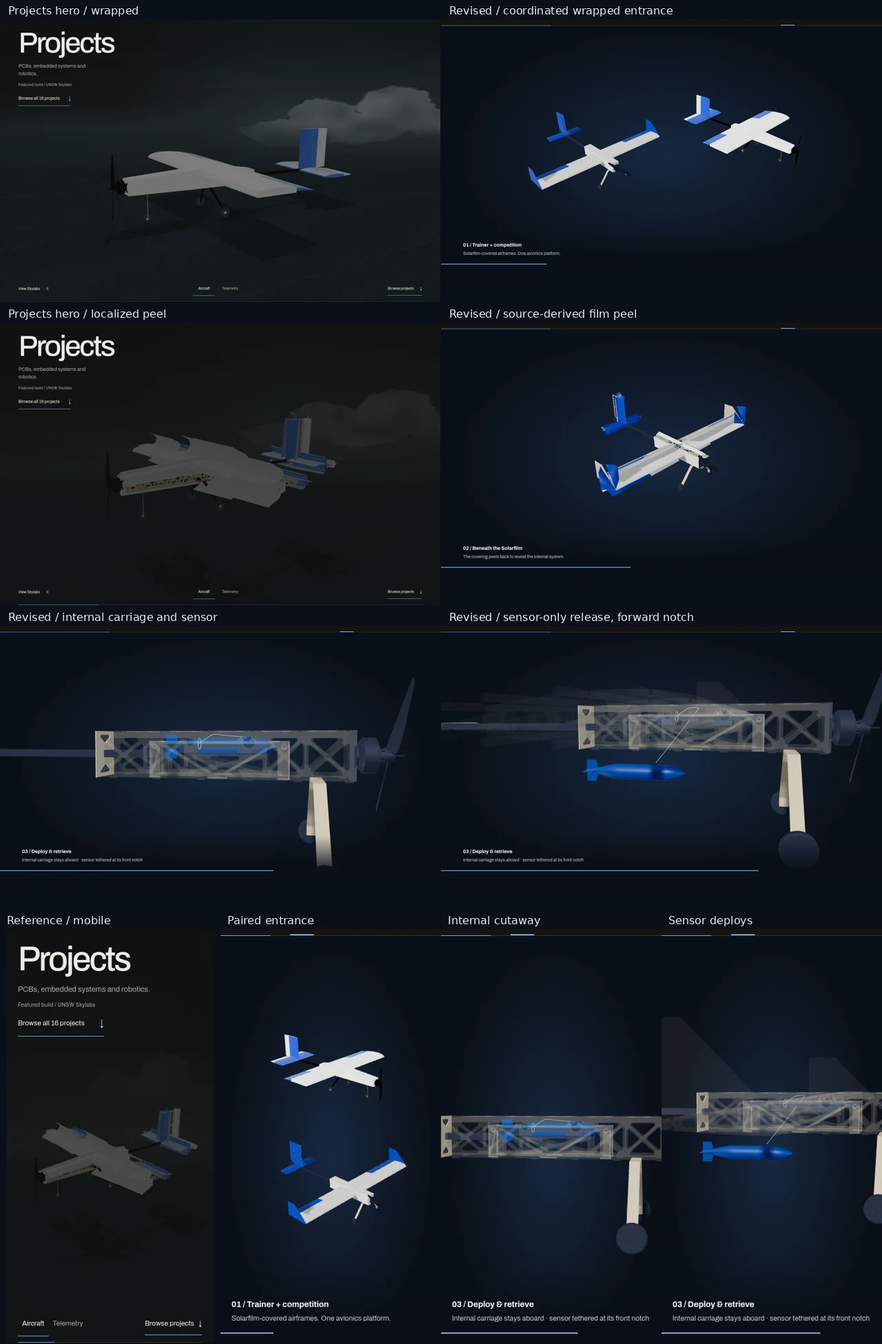
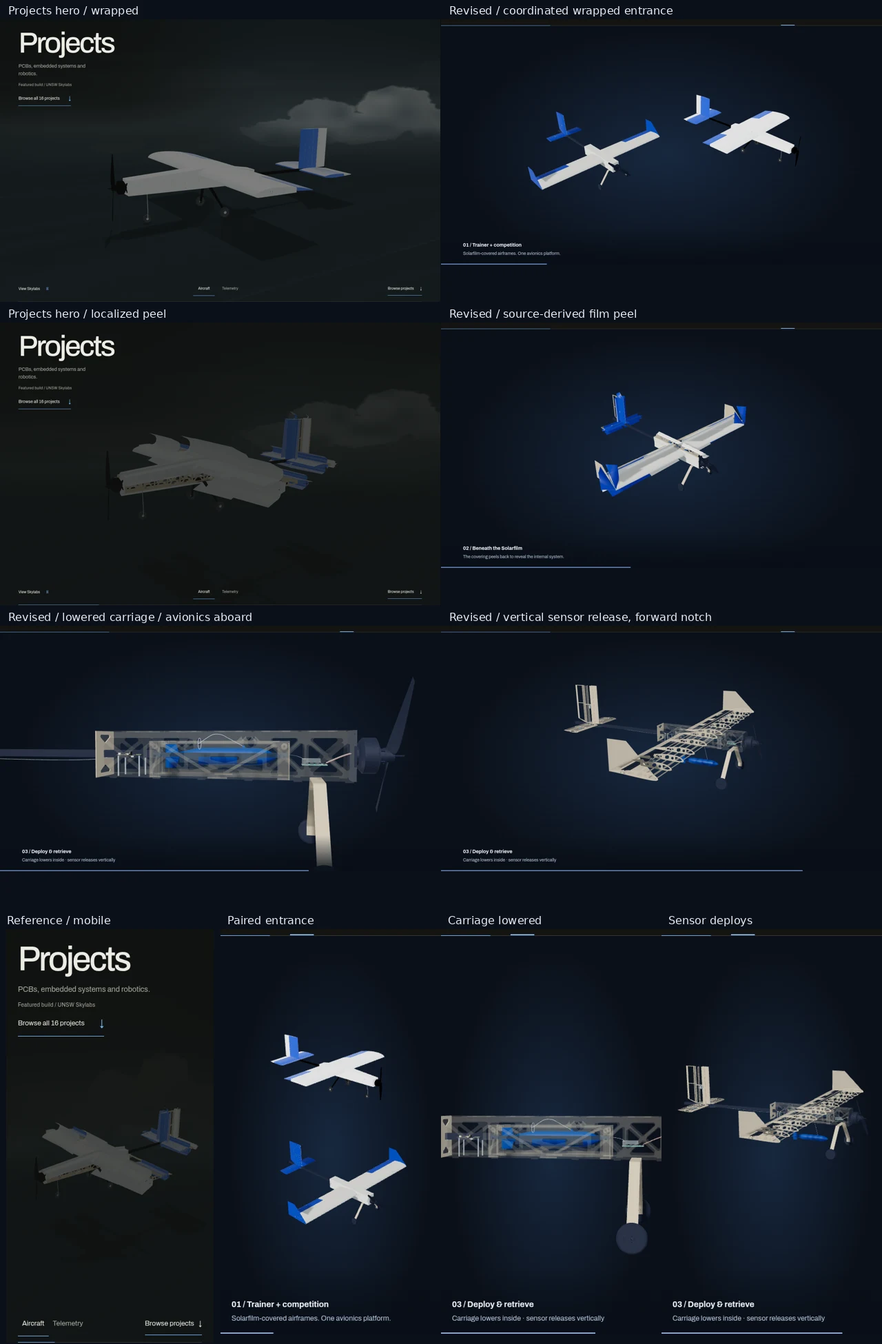
Lower internal carriage before vertical sensor release and add avionics

diff --git a/assets/v2-skylabs-fleet.js b/assets/v2-skylabs-fleet.js
@@ -1,12 +1,12 @@
 /* Original STEP geometry, internally installed with source-derived Solarfilm.
  * See docs/skylabs-competition-integration.md for mount, cutaway and towline
- * assumptions. Only the isolated sensor body deploys; the carriage never leaves the fuselage. */
+ * assumptions. Only the isolated sensor body deploys; the carriage lowers inside the fuselage before release. */
 (()=>{'use strict';
  const root=document.querySelector('[data-skylabs-fleet]');if(!root)return;
  const stage=root.querySelector('.fleet-stage'),track=root.querySelector('.fleet-track'),canvas=root.querySelector('canvas'),status=root.querySelector('.fleet-status');
  const title=root.querySelector('[data-fleet-title]'),caption=root.querySelector('[data-fleet-caption]'),bar=root.querySelector('.fleet-progress');
  const reduced=matchMedia('(prefers-reduced-motion: reduce)');
- let renderer,scene,camera,plane,trainer,mechanism,sensor,line,mechanismSource,housing=[],films=[],filmGroup,airframeCutaway=[],cart,supersededSensor,wingCutaway=[],frame=0,loading=false,ready=false,active=false,failed=false,progress=0;
+ let renderer,scene,camera,plane,trainer,mechanism,sensor,line,mechanismSource,housing=[],films=[],filmGroup,airframeCutaway=[],cart,supersededSensor,systems,wingCutaway=[],frame=0,loading=false,ready=false,active=false,failed=false,progress=0;
  const clamp=x=>Math.max(0,Math.min(1,x)),smooth=x=>{x=clamp(x);return x*x*(3-2*x);};
  function staticCaption(){title.textContent='01 / Trainer + competition';caption.textContent='Trainer and competition taildragger · source assemblies';bar.style.transform='scaleX(0)';}
  const allowed=()=>!reduced.matches&&!navigator.connection?.saveData&&innerHeight>=560;
@@ -29,21 +29,22 @@
   if(!ready)return;progress=clamp(value);const T=THREE,w=stage.clientWidth,h=stage.clientHeight,mobile=w<680;
   renderer.setPixelRatio(Math.min(devicePixelRatio,1.5));if(canvas.width!==Math.round(w*renderer.getPixelRatio())||canvas.height!==Math.round(h*renderer.getPixelRatio()))renderer.setSize(w,h,false);
   const arrival=smooth((progress-.03)/.21),trainerArrival=smooth(progress/.21),focus=smooth((progress-.28)/.18),returnWide=smooth((progress-.70)/.18);
-  const deploy=smooth((progress-.66)/.24),drop=.30*smooth((progress-.66)/.12),peel=smooth((progress-.28)/.27),inspect=smooth((progress-.51)/.10);
+  const lower=.025*smooth((progress-.60)/.10),deploy=smooth((progress-.74)/.18),drop=lower+.45*deploy,peel=smooth((progress-.28)/.27),inspect=smooth((progress-.51)/.10);
   const planeScale=(mobile?.57:.75)+focus*(mobile?.10:.18);
   plane.position.set((mobile?0:-.65)*(1-focus)+(1-arrival)*-2.2,(mobile?-.38:-.08)*(1-focus)+focus*.1+(1-arrival)*.55,(mobile?0:.45)*(1-focus));plane.rotation.set(.07,-.18+(1-arrival)*.2,(1-arrival)*-.18);plane.scale.setScalar(planeScale);plane.visible=true;
   trainer.position.set((mobile?0:.65)+(1-trainerArrival)*-2.2+focus*3,(mobile?.48:.15)+(1-trainerArrival)*.55,mobile?0:-.5);trainer.rotation.set(.07,-.18+(1-trainerArrival)*.2,(1-trainerArrival)*-.18);trainer.scale.setScalar(mobile?.50:.68);trainer.visible=focus<.995;
   // Only authored film peels. Structural CAD and the complete internal carriage
-  // remain fixed relative to the fuselage throughout every forward/reverse pose.
+  // remain aboard; the cart lowers on the internal guides before sensor release.
   films.forEach((part,index)=>{const amount=clamp(peel-(index%4)*.018*Math.sin(Math.PI*peel));part.patches.forEach(patch=>patch.deform(amount));part.group.position.copy(part.normal).multiplyScalar(.10*smooth((amount-.65)/.35));part.material.opacity=1-smooth((amount-.85)/.15);part.material.transparent=part.material.opacity<1;part.material.depthWrite=part.material.opacity>.95;part.group.visible=amount<.999;});
   housing.forEach(part=>{part.object.position.copy(part.rest);part.object.visible=true;part.materials.forEach(material=>{material.opacity=part.object===cart?1:1-.84*inspect;material.transparent=material.opacity<1;material.depthWrite=material.opacity>.95;});});
   airframeCutaway.forEach(part=>{part.object.visible=true;part.materials.forEach(material=>{material.opacity=1-inspect*(part.floor?1:.90);material.transparent=material.opacity<1;material.depthWrite=material.opacity>.95;});});
   wingCutaway.forEach(material=>{material.opacity=1-inspect*(1-returnWide);material.transparent=material.opacity<1;material.depthWrite=material.opacity>.95;});
-  sensor.position.copy(sensor.userData.rest);sensor.position.x-=deploy*1.15;sensor.position.z-=drop;
+  systems.setInspection(1-inspect*(1-returnWide));
+  sensor.position.copy(sensor.userData.rest);sensor.position.z-=drop;cart.position.z-=lower;
   plane.updateMatrixWorld(true);
-  const nearTarget=plane.localToWorld(new T.Vector3(.3638-.575*deploy,-.005-.15*smooth((progress-.66)/.12),0));
+  const nearTarget=plane.localToWorld(new T.Vector3(.3638,-.005-.225*deploy,0));
   const wideTarget=new T.Vector3(-.08*returnWide,-.07*returnWide,0),zoom=smooth((progress-.49)/.12)*(1-returnWide),target=wideTarget.lerp(nearTarget,zoom);
-  const nearCamera=nearTarget.clone().add(new T.Vector3(0,-.035,mobile?1.20:.90));
+  const nearCamera=nearTarget.clone().add(new T.Vector3(0,.12-.155*smooth((progress-.57)/.05),mobile?1.20:.90));
   const wideCamera=new T.Vector3((mobile?2.3:2.1)*(1-returnWide)+.65*returnWide,1.6-1.10*returnWide,(mobile?3.3:2.7)*(1-returnWide)+(mobile?4.0:3.1)*returnWide);
   camera.position.copy(wideCamera).lerp(nearCamera,zoom);camera.aspect=w/h;camera.lookAt(target);camera.updateProjectionMatrix();
   // Measured named wing spar, no invented cross-member or external extension.
@@ -58,7 +59,7 @@
   line.geometry.dispose();line.geometry=new T.TubeGeometry(new T.CatmullRomCurve3(points,false,'centripetal'),160,.00065,6,false);line.userData.anchor=points[0].toArray();line.userData.attachment=attach.toArray();line.visible=peel>.8;
   renderer.render(scene,camera);bar.style.transform='scaleX('+progress+')';
   title.textContent=progress<.28?'01 / Trainer + competition':progress<.56?'02 / Beneath the Solarfilm':'03 / Deploy & retrieve';
-  caption.textContent=progress<.28?'Solarfilm-covered airframes. One avionics platform.':progress<.56?'The covering peels back to reveal the internal system.':'Internal carriage stays aboard · sensor tethered at its front notch';
+  caption.textContent=progress>=.53&&progress<.60?'Central telemetry · 100A ESC · four control servos':progress<.28?'Solarfilm-covered airframes. One avionics platform.':progress<.56?'The covering peels back to reveal the internal system.':'Carriage lowers inside · sensor releases vertically';
   root.dataset.fleetProgress=progress.toFixed(4);
  }
  function tick(){frame=0;if(!ready||!active||document.hidden||!allowed())return;const r=track.getBoundingClientRect();draw(clamp((110-r.top)/Math.max(1,track.offsetHeight-stage.offsetHeight)));}
@@ -67,8 +68,8 @@
   try{
    if(!window.DecompressionStream)throw Error('Static view');
    await script('/assets/vendor/three.min.js',()=>!!window.THREE);await script('/assets/vendor/GLTFLoader.js',()=>!!window.THREE.GLTFLoader);
-   await script('/assets/v3-aircraft-scene.js',()=>!!window.V3AircraftScene);await script('/assets/v2-hero-environment.js',()=>!!window.V2ProductStudio);await script('/assets/v2-skylabs-film.js',()=>!!window.V2SkylabsFilm);
-   const models=await Promise.all([asset('skylabs-competition'),asset('skylabs-mechanism'),window.V3AircraftScene.load(window.THREE),asset('skylabs-mechanism','sensor-body.glb.gz'),fetch('/assets/models/aircraft/skylabs-competition/solarfilm.json.gz').then(async response=>{if(!response.ok)throw Error('Film unavailable');return new Response(response.body.pipeThrough(new DecompressionStream('gzip'))).json();})]);const T=THREE;
+   await script('/assets/v3-aircraft-scene.js',()=>!!window.V3AircraftScene);await script('/assets/v2-hero-environment.js',()=>!!window.V2ProductStudio);await script('/assets/v2-skylabs-film.js',()=>!!window.V2SkylabsFilm);await script('/assets/v2-hero-assets.js',()=>!!window.V2HeroAssets);await script('/assets/v3-aircraft-electronics.js',()=>!!window.V3AircraftElectronics);await script('/assets/v2-skylabs-systems.js',()=>!!window.V2SkylabsSystems);
+   const models=await Promise.all([asset('skylabs-competition'),asset('skylabs-mechanism'),window.V3AircraftScene.load(window.THREE),asset('skylabs-mechanism','sensor-body.glb.gz'),fetch('/assets/models/aircraft/skylabs-competition/solarfilm.json.gz').then(async response=>{if(!response.ok)throw Error('Film unavailable');return new Response(response.body.pipeThrough(new DecompressionStream('gzip'))).json();}),window.V2HeroAssets.load('telemetry')]);const T=THREE;
    scene=new T.Scene();camera=new T.PerspectiveCamera(37,1,.2,20);renderer=new T.WebGLRenderer({canvas,alpha:true,antialias:true,preserveDrawingBuffer:true});renderer.outputEncoding=T.sRGBEncoding;renderer.toneMapping=T.ACESFilmicToneMapping;renderer.toneMappingExposure=.8;
    window.V2ProductStudio.configureRenderer(renderer,T);scene.environment=await window.V2HeroEnvironment.load(T);const studio=window.V2ProductStudio.createLights(T,scene);renderer.toneMappingExposure=.72;studio.key.shadow.normalBias=.0006;renderer.shadowMap.enabled=true;renderer.shadowMap.type=T.PCFSoftShadowMap;
    plane=wrap(models[0],true);mechanism=wrap(models[1],false);trainer=new T.Group();trainer.name='fleet-trainer';plane.name='fleet-competition';const sourceTrainer=models[2].group;trainer.add(sourceTrainer);sourceTrainer.traverse(node=>{if(node.userData.category==='covering')node.traverse(mesh=>{if(!mesh.isMesh)return;const materials=(Array.isArray(mesh.material)?mesh.material:[mesh.material]).map(material=>{const copy=material.clone();copy.polygonOffset=true;copy.polygonOffsetFactor=-2;copy.polygonOffsetUnits=-2;return copy;});mesh.material=materials.length===1?materials[0]:materials;});});sourceTrainer.updateMatrixWorld(true);sourceTrainer.position.sub(new T.Box3().setFromObject(sourceTrainer).getCenter(new T.Vector3()));scene.add(plane,trainer);plane.add(mechanism);mechanism.position.set(.36381582,-.0246424995,0);mechanismSource=models[1];
@@ -93,6 +94,7 @@
     const mesh=new T.Mesh(geometry,material);mesh.name=item.name;mesh.userData={filmSurface:item.kind,peelAxis:item.axis,outward:item.normal,panelNormal:item.normal,separatedFilmPanel:true,shortAxisPeel:item.shortAxisPeel,filmRegion:item.name.startsWith('fuselage')?'fuselage':'wing'};group.add(mesh);filmGroup.add(group);
     const patches=window.V2SkylabsFilm.covering(T,{object:group,filmRegion:mesh.userData.filmRegion},true);films.push({group,material,normal,patches});
    }
+   systems=window.V2SkylabsSystems.create(T,models[5]);plane.add(systems.group);
    plane.traverse(mesh=>{if(mesh.isMesh){mesh.castShadow=true;mesh.receiveShadow=true;}});ready=true;loading=false;
    if(allowed()){root.dataset.fleetState='ready';status.textContent='Scroll to fly in, deploy the sensor and reverse to retrieve.';draw(0);queue();}else{root.dataset.fleetState='static';}
   }catch(error){failed=true;loading=false;ready=false;renderer?.dispose();root.dataset.fleetState='failed';staticCaption();status.textContent='The 3D view is unavailable. The CAD preview and assembly notes remain below.';}
@@ -103,6 +105,6 @@
  reduced.addEventListener('change',preference);navigator.connection?.addEventListener?.('change',preference);
  canvas.addEventListener('webglcontextlost',event=>{event.preventDefault();failed=true;ready=false;cancelAnimationFrame(frame);root.dataset.fleetState=allowed()?'failed':'static';staticCaption();status.textContent=allowed()?'3D rendering paused. The CAD preview remains available.':'Static CAD preview.';});
  addEventListener('pagehide',()=>{cancelAnimationFrame(frame);frame=0;});
- if(new URLSearchParams(location.search).has('fleet-capture'))window.__skylabsFleet={seek:draw,get ready(){return ready;},get renderer(){return renderer;},get scene(){return scene;},get camera(){return camera;},get sensor(){return sensor;},get mechanism(){return mechanism;},get housing(){return housing;},get cart(){return cart;},get films(){return films;},get filmGroup(){return filmGroup;},get mechanismSource(){return mechanismSource;},get supersededSensor(){return supersededSensor;},get line(){return line;},get progress(){return progress;}};
+ if(new URLSearchParams(location.search).has('fleet-capture'))window.__skylabsFleet={seek:draw,get ready(){return ready;},get renderer(){return renderer;},get scene(){return scene;},get camera(){return camera;},get sensor(){return sensor;},get mechanism(){return mechanism;},get housing(){return housing;},get cart(){return cart;},get systems(){return systems;},get films(){return films;},get filmGroup(){return filmGroup;},get mechanismSource(){return mechanismSource;},get supersededSensor(){return supersededSensor;},get line(){return line;},get progress(){return progress;}};
  preference();
 })();

diff --git a/assets/v2-skylabs-systems.js b/assets/v2-skylabs-systems.js
@@ -1,0 +1,33 @@
+/* Competition installation: existing Skylabs PCB and trainer ESC/servos.
+ * All coordinates are aircraft-local metres; mounting positions are illustrative. */
+(()=>{'use strict';
+ function create(T,boardModel){
+  const group=new T.Group();group.name='competition-avionics';group.userData.illustrativeMounts=true;
+  const board=new T.Group();board.name='Central Skylabs telemetry PCB';board.position.set(.115,-.025,0);group.add(board);
+  const size=Math.max(boardModel.metadata.boundsMm[2]-boardModel.metadata.boundsMm[0],boardModel.metadata.boundsMm[3]-boardModel.metadata.boundsMm[1])/1000;
+  if(Math.abs(size-.07303)>1e-6)throw Error('Unexpected telemetry dimensions');
+  boardModel.group.scale.setScalar(size);board.add(boardModel.group);V2ProductStudio.applyMaterials(boardModel,'telemetry',T);
+  board.userData={source:boardModel.metadata.source,components:boardModel.metadata.modelledComponentCount,scaleToMetres:size};
+  const trainer=V3AircraftElectronics.create(T);trainer.setLanding();
+  const esc=trainer.anchors.esc;group.add(esc);esc.position.set(.605,-.045,0);esc.quaternion.identity();
+  const placements=[['Left flaperon servo',[.345,-.002,.67]],['Right flaperon servo',[.345,-.002,-.67]],['Elevator servo',[-.63,-.024,.15]],['Rudder servo',[-.63,.13,0]]];
+  const servos=placements.map(([name,position])=>{const object=trainer.group.getObjectByName(name+' — KST-X10 Pro-B, illustrative geometry');if(!object)throw Error('Trainer servo missing');group.add(object);object.position.set(...position);object.quaternion.identity();if(name==='Rudder servo')object.rotation.x=Math.PI/2;return object;});
+  const metal=new T.MeshStandardMaterial({color:0x687888,roughness:.45,metalness:.7});
+  for(const x of [-.030,.030])for(const z of [-.022,.022]){const mount=new T.Mesh(new T.CylinderGeometry(.002,.002,.05575,10),metal);mount.name='Illustrative telemetry standoff';mount.position.set(.115+x,-.052875,z);group.add(mount);}
+  function wire(name,points,colour,radius=.00065){const mesh=new T.Mesh(new T.TubeGeometry(new T.CatmullRomCurve3(points.map(p=>new T.Vector3(...p))),32,radius,5,false),new T.MeshStandardMaterial({color:colour,roughness:.7,envMapIntensity:.15}));mesh.name=name;group.add(mesh);return mesh;}
+  const wires=[];
+  wires.push(wire('Telemetry to ESC sidewall signal harness',[[.15,-.02,-.02],[.16,-.025,-.047],[.56,-.025,-.047],[.59,-.04,-.015]],0x7489a3));
+  for(const sign of [-1,1])wires.push(wire('Wing servo signal harness',[[.12,-.02,sign*.02],[.17,.025,sign*.045],[.33,.025,sign*.06],[.34,.012,sign*.67]],0x7489a3));
+  wires.push(wire('Tail control harness',[[.08,-.02,0],[.03,-.035,0],[-.55,-.035,0],[-.63,-.02,.15]],0x7489a3));
+  wires.push(wire('Rudder control harness',[[-.55,-.035,0],[-.61,.03,0],[-.63,.13,0]],0x7489a3));
+  for(let i=0;i<3;i++)wires.push(wire('ESC motor phase '+i,[[.634,-.04,(i-1)*.01],[.68,-.02,(i-1)*.012],[.75,0,(i-1)*.008]],[0x916c36,0x395e8f,0x963e3e][i],.0009));
+  for(const part of [esc,...servos])part.traverse(mesh=>{if(mesh.isMesh){const restore=m=>{m=m.clone();m.opacity=1;m.transparent=!!m.map;m.depthWrite=true;m.envMapIntensity=.3;m.needsUpdate=true;return m;};mesh.material=Array.isArray(mesh.material)?mesh.material.map(restore):restore(mesh.material);}});
+  const rods=servos.map((servo,i)=>{const a=servo.position.clone().add(new T.Vector3(-.007,.018,0)),b=a.clone();b.x-=i<2?.065:.055;return wire('Illustrative control pushrod '+i,[a.toArray(),a.clone().lerp(b,.5).toArray(),b.toArray()],0x949eaa,.0006);});
+  group.traverse(mesh=>{if(mesh.isMesh){mesh.castShadow=true;mesh.receiveShadow=true;}});
+  const wingDetails=[...servos.slice(0,2),...wires.slice(1,3),...rods.slice(0,2)];
+  const wingMaterials=[];wingDetails.forEach(object=>object.traverse(mesh=>{if(mesh.isMesh){mesh.material=mesh.material.clone();wingMaterials.push(mesh.material);}}));
+  function setInspection(amount){wingMaterials.forEach(m=>{m.opacity=amount;m.transparent=amount<1||!!m.map;m.depthWrite=amount>.95;});wingDetails.forEach(o=>o.visible=amount>.001);}
+  return {group,board,esc,servos,wires,rods,setInspection,source:trainer.statistics.provenance};
+ }
+ window.V2SkylabsSystems={create};
+})();

diff --git a/v2/projects/skylabs/index.html b/v2/projects/skylabs/index.html
@@ -68,7 +68,7 @@
       <header class="skylabs-fleet-header"><div><span class="fleet-eyebrow">Skylabs / Aircraft</span><h2 id="fleet-heading">From trainer to competition.</h2><p>A taildragger airframe, a dedicated sensor carriage and a towline returning around the main carbon spar. Scroll through the flight, deployment and return.</p></div><a href="/v2/projects/#skylabs-aircraft">Explore the trainer ↗</a></header>
       <div class="fleet-track"><div class="fleet-stage"><img class="fleet-poster" src="/assets/models/aircraft/skylabs-competition/poster.webp" width="1440" height="720" alt="Trainer and competition aircraft together, rendered from the existing trainer asset and supplied competition CAD" loading="lazy"><canvas aria-hidden="true"></canvas><div class="fleet-caption"><strong data-fleet-title>01 / Trainer + competition</strong><span data-fleet-caption>Trainer and competition taildragger · source assemblies</span></div><div class="fleet-progress" aria-hidden="true"></div></div></div>
       <p class="fleet-status" role="status">Static CAD preview. Scroll animation is available with motion enabled.</p>
-      <div class="fleet-notes"><div><h3>One avionics platform, two airframes.</h3><p>The competition taildragger builds on the trainer’s telemetry platform, with the same ESC provisionally carried forward.</p><p><a href="https://a360.co/4ioq3Ov" target="_blank" rel="noreferrer">Aircraft CAD ↗</a> · <a href="https://a360.co/3WXbmec" target="_blank" rel="noreferrer">Sensor mechanism CAD ↗</a></p></div><div><h3>Out to measure. Back to the aircraft.</h3><p>The Solarfilm peels back to reveal the internal mechanism. The carriage stays inside the fuselage as the sensor deploys from its front-notch tether. The towline loops around the main spar; reverse the scroll to bring the sensor home.</p><p class="fleet-illustrative">Illustrative internal installation and cutaway, using the supplied CAD.</p></div></div>
+      <div class="fleet-notes"><div><h3>One avionics platform, two airframes.</h3><p>The competition taildragger builds on the trainer’s telemetry platform, with the same ESC provisionally carried forward.</p><p><a href="https://a360.co/4ioq3Ov" target="_blank" rel="noreferrer">Aircraft CAD ↗</a> · <a href="https://a360.co/3WXbmec" target="_blank" rel="noreferrer">Sensor mechanism CAD ↗</a></p></div><div><h3>Out to measure. Back to the aircraft.</h3><p>The Solarfilm peels back to reveal the internal mechanism. The carriage lowers inside the fuselage, then the sensor releases vertically through the bottom on its front-notch tether. The central telemetry board, ESC and control servos stay aboard. The towline loops around the main spar; reverse the scroll to bring the sensor home.</p><p class="fleet-illustrative">Illustrative internal installation and cutaway, using the supplied CAD.</p></div></div>
     </section>
 
     <section class="project-interactive v2-hardware-section" id="explore" aria-labelledby="skylabs-assembly-title"><span id="assembly" class="v2-anchor-alias" aria-hidden="true"></span><div class="project-interactive-inner">

diff --git a/docs/skylabs-competition-integration.md b/docs/skylabs-competition-integration.md
@@ -1,18 +1,18 @@
 # Competition aircraft — internal installation revision
 
-This revision is prepared for review, not published. The trainer and competition taildragger enter together; opaque white/blue Solarfilm covers the competition structure, peels away, and reassembles on reverse scroll. The camera then reveals the internal installation. Only the sensor body drops and trails aft. The carriage, guides and housing remain stationary in the fuselage. Trainer specifications and the same ESC remain provisional.
+This revision updates the published v2 sequence. The trainer and competition taildragger enter together; opaque white/blue Solarfilm covers the competition structure, peels away, and reassembles on reverse scroll. The camera then reveals the internal installation. The carriage lowers 25 mm inside the fuselage with the sensor, then the sensor alone releases vertically a further 450 mm. There is no aft translation. Guides and housing remain fixed; the carriage remains aboard. Trainer specifications and the same ESC remain provisional.
 
 ## Source identity and units
 
 Both supplied STEP files declare millimetres. Original exported assemblies retain all 134 aircraft and 11 mechanism occurrences, source transforms and hashes in their manifests. Source geometry is not resized. Runtime axis wrappers convert metres to nose +X, up +Y, span Z. `integration.json` records transforms and Library IDs. Build sources: `scripts/build-skylabs-competition.py`, `scripts/extract-skylabs-sensor.py`, `scripts/build-skylabs-film.py`.
 
-The product `Sensor V2, 300mm Length` contains two solids, not just the sensor: solid 0 is the 300 × 63.8 × 63.8 mm body; solid 1 duplicates the separate `Cart V2` (identical 160278.1276 mm³ volume, with a 0.2093 mm X offset). The old animation moved that compound and therefore carried a duplicate cart. The revised runtime suppresses that compound and inserts an independently exported, unaltered solid 0. The original independent Cart V2 stays visible and fixed. `sensor-identification.json` records bounds and the extracted GLB hash. The previous payload reference and loose duplicate rudder are suppressed; the attached tail rudder remains.
+The product `Sensor V2, 300mm Length` contains two solids, not just the sensor: solid 0 is the 300 × 63.8 × 63.8 mm body; solid 1 duplicates the separate `Cart V2` (identical 160278.1276 mm³ volume, with a 0.2093 mm X offset). The old animation moved that compound and therefore carried a duplicate cart. The revised runtime suppresses that compound and inserts an independently exported, unaltered solid 0. The original independent Cart V2 stays visible and moves only on its internal lowering stroke. `sensor-identification.json` records bounds and the extracted GLB hash. The previous payload reference and loose duplicate rudder are suppressed; the attached tail rudder remains.
 
 ## Internal orientation and fit interpretation
 
 Mechanism source X runs fore/aft, source Z points up. The mechanism centre is [0.36381582, -0.0246424995, 0] metres in centred aircraft coordinates, scale [1,1,1]. Source height maps to aircraft Z 3.5–114.715 mm, within the fuselage height. The 100 mm dimension belongs to the housing envelope; the actual cart is 90 mm wide and sensor 63.8 mm, versus a 94 mm fuselage interior. Housing side faces coincide with the 100 mm outer fuselage envelope and are illustrated as integrated faces. This is an assumed internal installation, not evidence that the original CAD already supplies a finished mounting detail. No parts are silently narrowed, no external cradle, brackets or carbon extension are added.
 
-The wing structure briefly fades from the close-up to keep the internal assembly legible, then returns for the wide tow view. All geometry stays fixed. The fuselage sides and housing fade into a stationary cutaway; the floor becomes invisible to explain the sensor exit. This represents a required exit/opening, not a demonstrated door or release mechanism. The source carriage and guides never translate. The straight drop and aft tow trajectory are explanatory, not validated release kinematics. Earlier compound-sensor downward Boolean results in `clearance-screen.json` describe the superseded compound and assumed orientation; they do not establish an internal-fit design flaw or validate this revised motion.
+The wing structure briefly fades from the close-up to keep the internal assembly legible, then returns for the wide tow view. All geometry stays fixed. The fuselage sides and housing fade into a stationary cutaway; the floor becomes invisible to explain the sensor exit. This represents a required exit/opening, not a demonstrated door or release mechanism. The source carriage has an assumed 25 mm internal downward stroke; guides remain fixed. The sensor follows that stroke until release, then moves vertically. Stroke length, exit opening and release kinematics are illustrative, not validated mechanical details. Earlier compound-sensor downward Boolean results in `clearance-screen.json` describe the superseded compound and assumed orientation; they do not establish an internal-fit design flaw or validate this revised motion.
 
 ## Front notch and towline
 
@@ -22,10 +22,18 @@ The rounded sensor nose is source +X; its tapered tail is -X. BRep circular edge
 
 The reference is the actual Projects hero at `/v2/projects/`, captured at desktop 1440 × 1000 and mobile 390 × 844. The competition uses its environment map, directional lighting and localized diagonal Solarfilm peel kernel. Skins follow source wing rib profiles, tail envelopes and fuselage panel bounds; they are authored covering surfaces, not replacement aircraft geometry. Blue trailing regions and white main panels retain the trainer's visual language. The camera holds a wide composition through the peel, then lowers toward the internal assembly to avoid the earlier wing-obscured close-up. Film remains opaque while attached, with a final fade only after release.
 
-Review captures are generated by `scripts/render-skylabs-competition.cjs`; reference captures are under `.codex-temp/fleet/reference/`. Runtime regression tests check actual rendered reversal, stationary housing/cart transforms, front-notch attachment, original scale, frame containment, source identity, mobile overflow, native scroll and loading/accessibility fallbacks. This visual explanation is not structural, manufacturing or flight validation.
+Review captures are generated by `scripts/render-skylabs-competition.cjs`; reference captures are under `.codex-temp/fleet/reference/`. Runtime regression tests check actual rendered reversal, stationary housing, internal vertical cart stroke and sequenced vertical sensor transforms, front-notch attachment, original scale, frame containment, source identity, mobile overflow, native scroll and loading/accessibility fallbacks. This visual explanation is not structural, manufacturing or flight validation.
 
 ## Inspected review evidence
 
-[Rendered reference and revised desktop/mobile keyframes](skylabs-competition-review.webp). The sheet contains actual browser renders, not concept images. Reference: wrapped and early peel. Revision: paired wrapped entrance (0.24), curled peel (0.43), internal stowed assembly (0.62), sensor-only release (0.72). Full tow (1.0) and intermediate frames were also inspected in both viewports. The comparison led to delayed camera zoom, correct sRGB material conversion, blue wrapped endplates, reduced environment reflections, a lower internal camera and temporary wing cutaway. These changes address washed-out materials, early close-up cropping and wing occlusion found in the first rendered iteration. The revised dedicated scene is brighter than the atmospheric Projects background so the internal mechanism remains legible.
+[Rendered reference and revised desktop/mobile keyframes](skylabs-competition-review.webp). The sheet contains actual browser renders, not concept images. Reference: wrapped and early peel. Revision: paired wrapped entrance (0.24), curled peel (0.43), lowered carriage and avionics (0.70), vertical sensor-only release (0.82). Full vertical extension (1.0) and intermediate frames were also inspected in both viewports. The comparison led to delayed camera zoom, correct sRGB material conversion, blue wrapped endplates, reduced environment reflections, a lower internal camera and temporary wing cutaway. These changes address washed-out materials, early close-up cropping and wing occlusion found in the first rendered iteration. The revised dedicated scene is brighter than the atmospheric Projects background so the internal mechanism remains legible.
 
 Validation commands: `node scripts/verify-v2-skylabs-fleet.cjs`, `CHROMIUM_EXECUTABLE=/usr/bin/chromium node scripts/verify-v2-skylabs.cjs`, `python3 scripts/audit-v2.py`, and `V2_BASE_URL=http://127.0.0.1:8080 node scripts/verify-skylabs-fleet-live.cjs` (local delivery byte verification, not publication). Capture scripts: `scripts/render-skylabs-reference.cjs` and `scripts/render-skylabs-competition.cjs`. New compressed sensor/film payload totals 503,243 bytes; loading remains lazy, static preference paths skip models, and offscreen rendering stops.
+
+## Central avionics and revised motion
+
+The actual existing Skylabs telemetry asset (`assets/models/hero/telemetry.bin.gz`) retains its 153 modelled components and 73.03 mm normalization. It sits near the aircraft centre, in the fuselage bay immediately aft of the carriage, at [0.115, -0.025, 0] m, avoiding the sensor swept volume. Four small standoffs illustrate its mounting. The existing trainer electronics factory supplies the same 100A ESC and four KST-X10 Pro-B servos, without adding a second battery/receiver. These ESC/servo shapes were already illustrative trainer hardware, not manufacturer CAD. The ESC occupies the forward bay at [0.605, -0.045, 0] m; servos sit by both flaperons, elevator and rudder. Thin signal harnesses follow the sidewall/spar and tail, with three motor phase leads and short illustrative pushrods.
+
+Carriage lowering occurs at progress 0.60–0.70. Release begins only at 0.74, with sensor displacement entirely along source -Z. At full extension the carriage has moved 25 mm and the sensor 475 mm; reverse scroll retrieves the sensor before raising the carriage. No source CAD is resized or replaced. Logos remain outside this release.
+
+Final checks also assert that the carriage bounding box stays inside the fuselage throughout its stroke and that the board, ESC and servo envelopes do not intersect the sampled sensor path. These envelope checks supplement rendered review; they do not certify the original release hardware.
